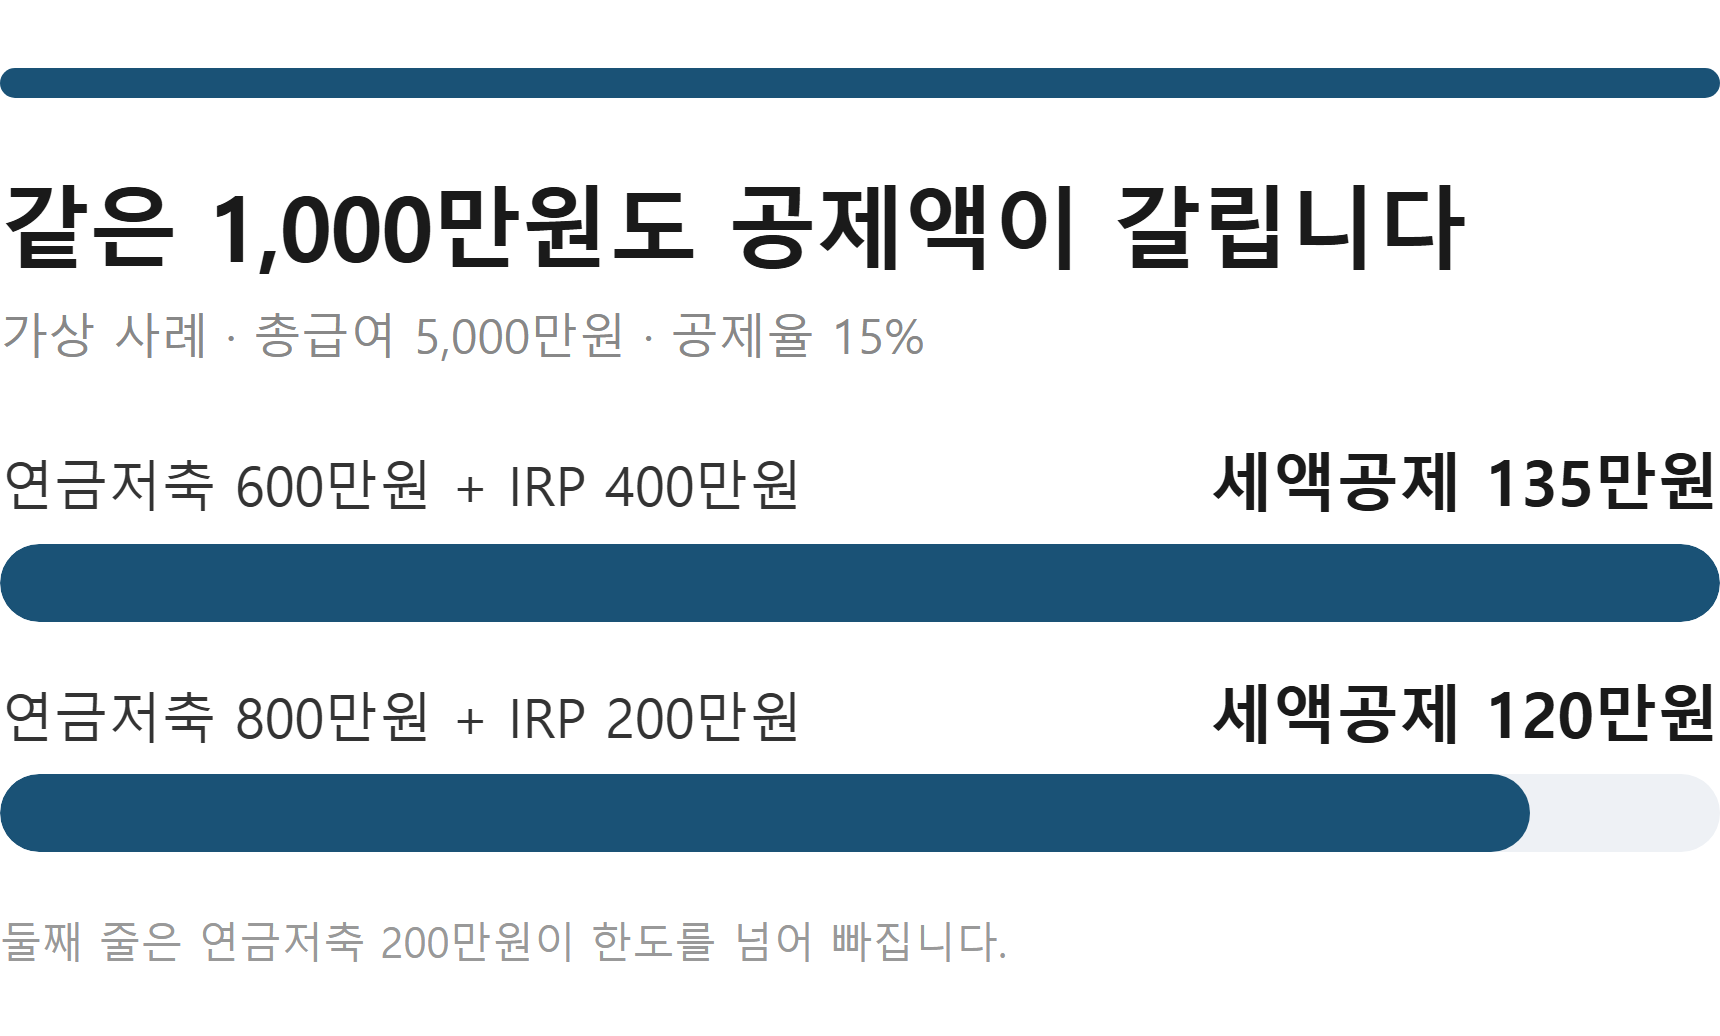
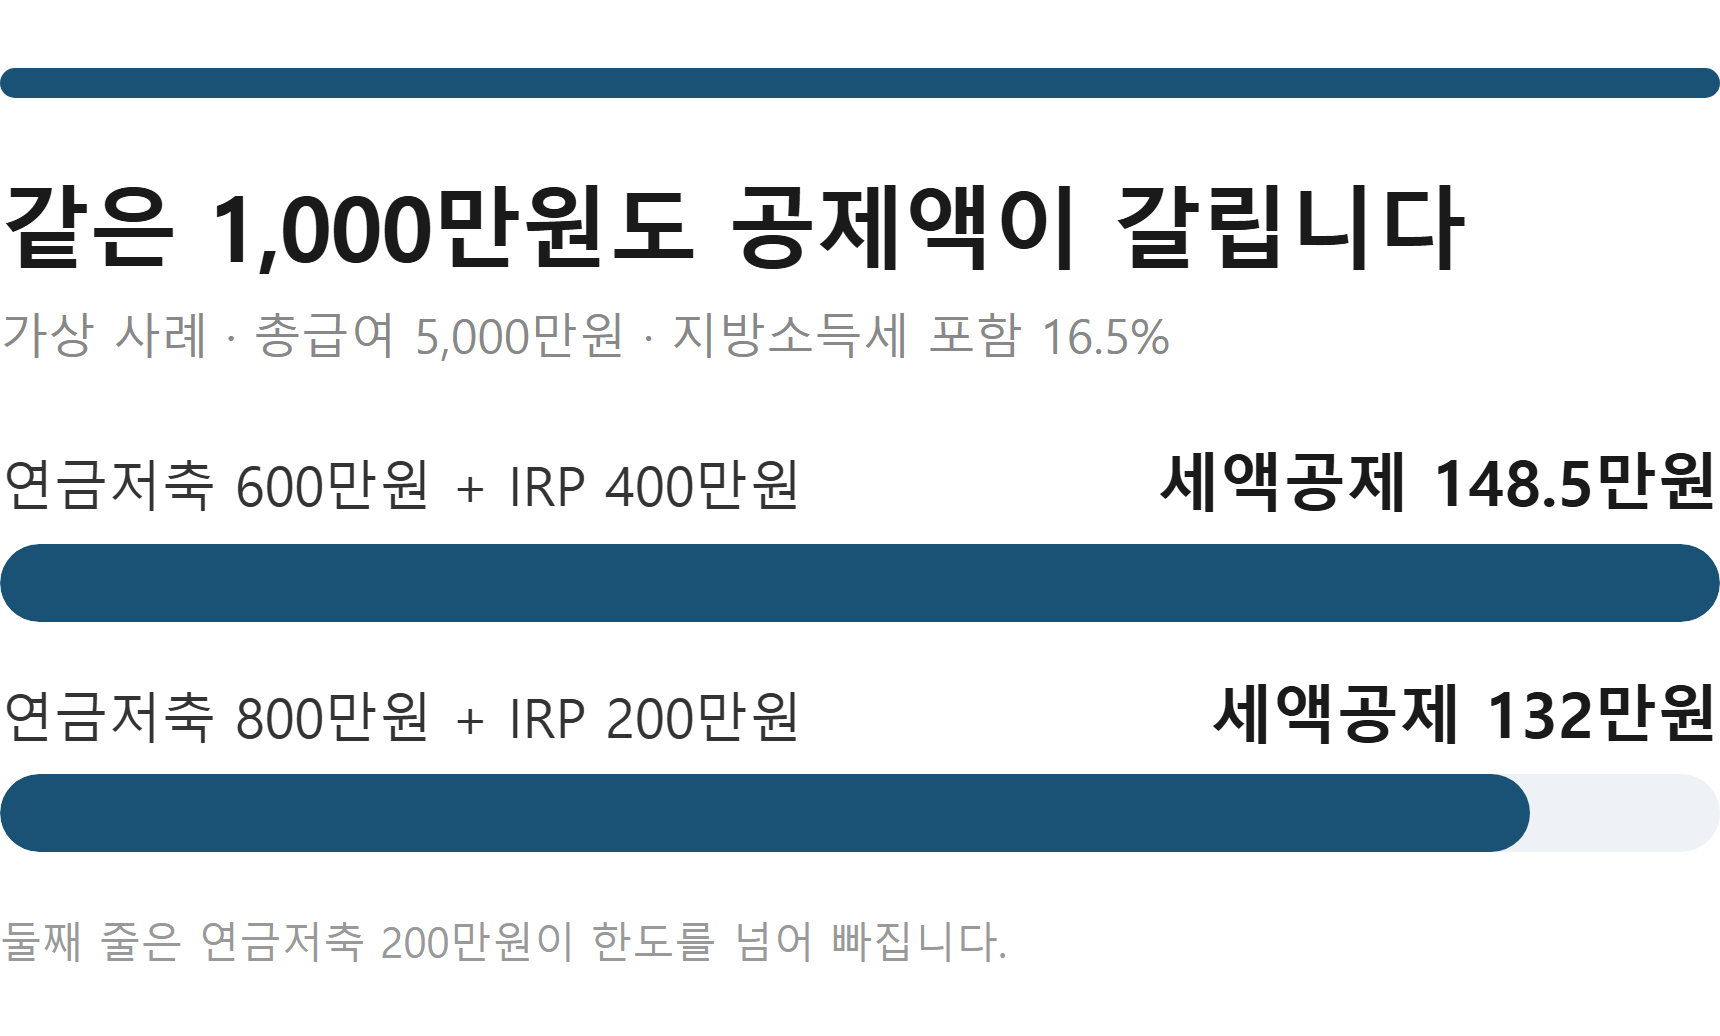
30편 정정: 공제액 135·120만원은 국세만이고, 해지세 비교가 기준을 섞었다
135만원·120만원은 900·800만원 × 15%로 지방소득세를 뺀 값이다. 일반 안내 기준(지방소득세 포함)은
148.5만원·132만원이고, 총급여 5,500만원 초과는 118.8만원이다(108만원이 아니다).
5번 섹션의 "해지세 148.5만원이 공제 135만원보다 많다"는 포함과 제외를 비교한 오류였다.
같은 기준이면 5,500만원 이하는 공제와 해지세가 같아 혜택이 사라지고, 초과는 118.8만원보다 더 낸다.

제목을 `연금저축과 나눠 납입하는 방법`으로 바꾸고(title_gate 재선정), 카드 65·66과 대표사진을 다시 만들었다.
라이브(logNo 224460559865)는 아직 옛 판이다 — 사용자가 에디터에서 교체해야 한다.
16.5%·13.2%는 국세청 원문을 못 찾아 금융회사 안내로 확인했다. 2026 귀속 개정 여부도 미확인이다.
sync로 30편 발행 시각을 장부에 채웠다.

Changed region(s): [[0.6779, 0.4324, 0.9244, 0.4942], [0.3698, 0.278, 0.6779, 0.3398], [0.8936, 0.6795, 0.9244, 0.7104]]

diff --git a/content/naver/30_연말정산-IRP세액공제계산.md b/content/naver/30_연말정산-IRP세액공제계산.md
@@ -1,4 +1,4 @@
-제목: 2026 IRP 세액공제 계산｜같은 납입액도 135만원·120만원 갈리는 이유
+제목: 2026 IRP 세액공제 계산｜연금저축과 나눠 납입하는 방법
 
 ---
 
@@ -8,14 +8,14 @@
 
 2026 IRP 세액공제 계산은 납입액에 공제율을 곱하면 끝날 것 같지만, 어느 계좌에 넣었는지가 먼저입니다. 연금저축은 **연 600만원**까지만 인정되고, IRP를 합치면 연 900만원까지 인정됩니다.
 
-그래서 같은 1,000만원을 넣어도 공제액이 달라집니다. 가상 사례로 계산하면 나누는 방법에 따라 135만원과 120만원으로 갈립니다.
+그래서 같은 1,000만원을 넣어도 공제액이 달라집니다. 가상 사례로 계산하면 지방소득세까지 148.5만원과 132만원으로 갈립니다.
 
 연말에 넣기 전에 볼 한도와 공제율, 계산법, 해지할 때 손해까지 정리했습니다.
 
 > [요약] 🐷 돼지가 먼저 알려줘요 (3초 요약)
 > - 연금저축 600만원, IRP 합산 900만원까지 공제 대상입니다
-> - 총급여 5,500만원 이하는 15%, 넘으면 12%입니다
-> - 같은 1,000만원도 가상 사례에서 135만원과 120만원으로 갈립니다
+> - 지방소득세 포함 공제율은 총급여 5,500만원 이하 16.5%, 넘으면 13.2%입니다
+> - 같은 1,000만원도 가상 사례에서 148.5만원과 132만원으로 갈립니다
 > - 공제받은 돈을 연금 외로 찾으면 16.5%를 냅니다
 > - 전년도 900만원 한도를 넘긴 금액은 신청하면 올해 납입으로 봅니다
 
@@ -43,9 +43,9 @@
 
 [이미지 ②: `assets/naver_img/65_IRP_한도두겹.png` — 제작 완료]
 
-근로소득만 있으면 **총급여 5,500만원 이하는 15%**, 넘으면 12%입니다. 다른 소득이 있으면 종합소득금액 4,500만원이 기준입니다.
+소득세법의 공제율은 **총급여 5,500만원 이하 15%**, 넘으면 12%입니다. 지방소득세까지 더해 금융회사는 16.5%와 13.2%로 안내합니다. 다른 소득이 있으면 종합소득금액 4,500만원이 기준입니다.
 
-공제는 세금에서 직접 빼는 방식입니다. 결정세액이 이미 없다면 납입해도 줄어들 세금이 없습니다.
+그래서 900만원을 채운 최대 공제액은 148.5만원과 118.8만원으로 갈립니다. 다만 결정세액이 이미 없다면 납입해도 줄어들 세금이 없습니다.
 
 미리보기나 지난 연말정산 영수증에서 결정세액을 먼저 보고 납입액을 정하세요.
 
@@ -57,16 +57,16 @@
 
 아래는 이해를 돕기 위한 가상 사례입니다. 총급여 5,000만원인 직장인이 1년에 1,000만원을 넣는다고 가정했습니다.
 
-| 나누는 법 (가상 사례) | 공제 대상 | 세액공제 |
+| 나누는 법 (가상 사례) | 공제 대상 | 세액공제(지방소득세 포함) |
 |---|---|---|
-| 연금저축 600만원 + IRP 400만원 | 900만원 | 135만원 |
-| 연금저축 800만원 + IRP 200만원 | 800만원 | 120만원 |
+| 연금저축 600만원 + IRP 400만원 | 900만원 | 148.5만원 |
+| 연금저축 800만원 + IRP 200만원 | 800만원 | 132만원 |
 
-🪙 살림 메모: 둘째 줄은 연금저축 200만원이 한도를 넘어 빠집니다. 총급여가 7,000만원이면 공제율 12%라 900만원을 채워도 108만원입니다.
+🪙 살림 메모: 둘째 줄은 연금저축 200만원이 한도를 넘어 빠집니다. 총급여가 7,000만원이면 13.2%라 900만원을 채워도 118.8만원입니다.
 
 [경험 한 줄 ① | A안(사실 — 그대로 써도 됨): 공식 조문에서 가장 놓치기 쉬운 부분은 합산 한도 안에 연금저축 칸이 따로 있다는 점입니다. | B안(실제로 그랬을 때만): 저는 연금저축에만 넣다가 한도를 넘긴 해가 있었어요.]
 
-이미 연금저축을 많이 넣었다면 남은 금액은 IRP로 넣어야 공제가 늘어납니다.
+기본 조합은 연금저축 600만원 + IRP 300만원입니다. 이미 연금저축을 많이 넣었다면 남은 금액은 IRP로 넣어야 공제가 늘어납니다.
 
 ---
 
@@ -84,11 +84,11 @@
 
 ---
 
-## 5. 해지하면 공제보다 더 냅니다
+## 5. 해지하면 공제 혜택이 사라집니다
 
 IRP와 연금저축은 공제를 받은 대신 묶이는 돈입니다. 해지한 해의 납입액은 공제받을 수 없고, 이미 **공제받은 납입액**은 기타소득으로 16.5%가 원천징수됩니다.
 
-가상 사례로 900만원을 공제받아 135만원을 줄인 뒤 연금 외로 찾으면 148.5만원을 냅니다. 받은 공제보다 많습니다.
+가상 사례로 900만원을 공제받은 뒤 연금 외로 찾으면 148.5만원을 냅니다. 총급여 5,500만원 이하면 받은 공제와 같아 혜택이 사라지고, 넘으면 받은 118.8만원보다 더 냅니다.
 
 | 해지 사유 | 세율 |
 |---|---|
@@ -97,7 +97,7 @@ IRP와 연금저축은 공제를 받은 대신 묶이는 돈입니다. 해지한
 
 🪙 살림 메모: 부득이한 사유의 세율은 국세청 상담 안내 기준입니다. 내 사유가 해당하는지는 금융회사와 국세상담센터(126)에 확인하세요.
 
-[경험 한 줄 ② | A안(사실 — 그대로 써도 됨): 계산해 보면 공제액보다 해지 때 내는 세금이 커서, 쓸 돈을 넣으면 오히려 손해가 된다는 점이 분명합니다. | B안(실제로 그랬을 때만): 저는 급하게 돈이 필요해 연금 계좌를 해지할지 고민한 적이 있어요.]
+[경험 한 줄 ② | A안(사실 — 그대로 써도 됨): 가상 사례로 계산하면 해지 세금이 공제 혜택을 그대로 되돌려, 쓸 돈을 넣으면 얻는 것이 없다는 점이 분명합니다. | B안(실제로 그랬을 때만): 저는 급하게 돈이 필요해 연금 계좌를 해지할지 고민한 적이 있어요.]
 
 쓸 일이 있는 돈은 공제 한도를 채우려고 넣지 마세요.
 
@@ -122,6 +122,7 @@ IRP와 연금저축은 공제를 받은 대신 묶이는 돈입니다. 해지한
 
 - 국세청 국세상담센터 Q&A 「연금계좌세액공제」 — 2026년 10월 확인
 - 소득세법 제59조의3(연금계좌세액공제) — 2023년 1월 1일 시행분
+- KB증권 연금계좌 절세활용법(지방소득세 포함 공제율) — 2026년 10월 확인
 - 정책브리핑(국세청) 「연말정산 미리 보기 서비스 시작」 — 2025년 11월 게시
 
 #IRP세액공제계산 #연금저축IRP세액공제 #연말정산IRP #연말정산2026
@@ -134,12 +135,13 @@ IRP와 연금저축은 공제를 받은 대신 묶이는 돈입니다. 해지한
 - 글 유형: 계산·실수령형
 - 검색 의도: calculation
 - 보조 의도: decision
-- 최신성 재확인: 2026-10-31 23:22 | IRP 세액공제 한도 개정 2026 | https://call.nts.go.kr/call/qna/selectQnaInfo.do?ctgId=CTG11905&mi=1318
+- 최신성 재확인: 2026-10-31 23:41 | IRP 세액공제 한도 개정 2026 | https://call.nts.go.kr/call/qna/selectQnaInfo.do?ctgId=CTG11905&mi=1318
 - 썸네일 유형: number
-- 썸네일 문구: IRP 공제 계산 | 납입 나누는 법
-- 썸네일 강조 숫자: 135만원
+- 썸네일 문구: 600 + 300만원 | 연금저축 + IRP
+- 썸네일 배지: 세액공제 합산 900만원
+- 썸네일 후보: 600 + 300만원 | 최대 148.5만원 | 148.5만 vs 118.8만 | 합산 900만원 | 800만원 넣으면 132만원
 - 카테고리 색: pension
-- 돼지 자세: calculator
+- 돼지 자세: face
 - 글감 근거: 클러스터 연말정산-연말준비 yj-03 (90점, CREATE_SUPPORTING_POST). 2026-10-31 `geo`: `irp 세액공제 계산` 블로그 4 · `연금저축 irp 세액공제` 블로그 3 · `개인형 irp 세액공제` 블로그 2(모두 aibAnswer). `IRP 세액공제`는 공공정책형이라 뺐다. serp `IRP 세액공제`: 상위 10개 최근 3주 글 10, 우리 30위 밖. 검색량 IRP세액공제 4,950(12일 전 값)
 - 질의 문구는 geo 출력에서 그대로 옮겼다
 - 카테고리: 연말정산·세금
@@ -151,9 +153,10 @@ IRP와 연금저축은 공제를 받은 대신 묶이는 돈입니다. 해지한
 - 내부 링크 대상: 18 | 24
 - 출처: 국세청 | 연말정산 자주묻는Q&A 34.연금계좌세액공제 | https://call.nts.go.kr/call/qna/selectQnaInfo.do?ctgId=CTG11905&mi=1318 | 2026-10-31
 - 출처: 정책브리핑(국세청) | 5일부터 13월의 월급 연말정산 미리 보기 서비스 시작 | https://www.korea.kr/news/policyNewsView.do?newsId=148954010 | 2026-10-31
+- 출처: KB증권 | 연금계좌 절세활용법 | https://www.kbsec.com/go.able?linkcd=m01110001 | 2026-11-01
 - 출처: CaseNote(법령 원문) | 소득세법 제59조의3 연금계좌세액공제 | https://casenote.kr/법령/소득세법/제59조의3 | 2026-10-31
 - 내부 링크: 18(연말정산 소득공제, logNo 224444853695) · 24(연말정산 간소화, logNo 224452380631). 25~29편은 장부가 HUMAN_REVIEW라 대상에서 뺐다
-- 이미지: ① 대표사진(number, `--thumb 30`) · ② 한도 두 겹 카드(65) · ③ 배분별 공제액 카드(66)
+- 이미지: ① 대표사진(number, 프로필 얼굴, `--thumb 30`) · ② 한도 두 겹 카드(65) · ③ 배분별 공제액 카드(66)
 
 ### 수치 근거
 
@@ -162,13 +165,16 @@ IRP와 연금저축은 공제를 받은 대신 묶이는 돈입니다. 해지한
 | 연금저축 한도 | 연 600만원 | 소득세법 제59조의3 제1항 | 2026-10-31 | VERIFIED |
 | 합산 한도 | 연 900만원 | 소득세법 제59조의3 제1항, 국세상담 Q&A 연금계좌세액공제 | 2026-10-31 | VERIFIED |
 | 공제율 | 총급여 5,500만원 이하 15%, 초과 12%, 종합소득금액 4,500만원 | 소득세법 제59조의3, 국세상담 Q&A | 2026-10-31 | VERIFIED |
+| 지방소득세 포함 공제율 | 16.5%, 13.2% | KB증권 연금계좌 절세활용법, 미래에셋증권 안내 | 2026-11-01 | VERIFIED |
 | 해지 세율 | 기타소득 16.5%, 부득이한 사유 연금소득 5%, 4%, 3% | 국세상담 Q&A 연금계좌세액공제 | 2026-10-31 | VERIFIED |
 | 과세기간 마지막 날 | 12월 31일 | 소득세법(과세기간 1월 1일~12월 31일) | 2026-10-31 | VERIFIED |
 | 조문 시행일 | 2023년 1월 1일 | 소득세법 제59조의3 | 2026-10-31 | VERIFIED |
 | 가상 사례 납입액 | 총급여 5,000만원, 1,000만원 납입 | 600 + 400 = 1,000 | 2026-10-31 | 계산 |
-| 가상 사례 배분 1 | 연금저축 600만원 + IRP 400만원 → 900만원 → 135만원 | 900 × 0.15 = 135 | 2026-10-31 | 계산 |
-| 가상 사례 배분 2 | 연금저축 800만원 + IRP 200만원 → 800만원 → 120만원, 초과 200만원 | 800 × 0.15 = 120 | 2026-10-31 | 계산 |
-| 가상 사례 12% | 총급여 7,000만원 → 108만원 | 900 × 0.12 = 108 | 2026-10-31 | 계산 |
+| 기본 조합 | 연금저축 600만원 + IRP 300만원 | 600 + 300 = 900 | 2026-11-01 | 계산 |
+| 최대 공제액 | 148.5만원, 118.8만원 | 900 × 0.165 = 148.5, 900 × 0.132 = 118.8 | 2026-11-01 | 계산 |
+| 가상 사례 배분 1 | 연금저축 600만원 + IRP 400만원 → 900만원 → 148.5만원 | 900 × 0.165 = 148.5 | 2026-11-01 | 계산 |
+| 가상 사례 배분 2 | 연금저축 800만원 + IRP 200만원 → 800만원 → 132만원, 초과 200만원 | 800 × 0.165 = 132 | 2026-11-01 | 계산 |
+| 가상 사례 13.2% | 총급여 7,000만원 → 118.8만원 | 900 × 0.132 = 118.8 | 2026-11-01 | 계산 |
 | 가상 사례 해지 | 148.5만원 | 900 × 0.165 = 148.5 | 2026-10-31 | 계산 |
 
 - ⚠ 발행 전 확인할 것
@@ -176,6 +182,6 @@ IRP와 연금저축은 공제를 받은 대신 묶이는 돈입니다. 해지한
   2. 2026년 귀속 개정 여부를 공식 자료로 확인하지 못했다. 공제율 상향 법안이 발의됐다는 민간 설명이 있으나 시행 근거는 찾지 못했다
   3. 부득이한 사유 세율 3~5%는 연령 조건을 확인하지 않고 범위로만 썼다
   4. 금융회사 처리 마감은 회사마다 달라 날짜를 쓰지 않았다
-  5. 지방소득세를 넣은 금액(16.5%·13.2% 공제율)은 쓰지 않았다. 해지 세율 16.5%만 국세청 안내대로 지방소득세 포함이다
-  6. 민간 글에는 148.5만원이 900만원 공제 최대액으로 나오지만, 이 글의 148.5만원은 해지 세금 계산이다. 혼동하지 않게 본문에서 구분했다
+  5. 지방소득세 포함 16.5%·13.2%는 국세청 원문을 찾지 못해 금융회사 안내로 확인했다. KB증권 페이지는 글자가 깨져 요약으로 읽었다. 국세청·법령 원문은 15%·12%다
+  6. 2026-11-01 정정: 처음 올린 판의 135만원·120만원은 국세만 계산한 값이었고, "해지세 148.5만원이 공제 135만원보다 많다"는 비교는 지방소득세 포함과 제외를 섞은 오류였다
 - 본문에서 뺀 것: ISA 전환 추가 한도(10%·300만원), 배우자 명의, 상품 추천·수익률, 홈택스 화면 경로
